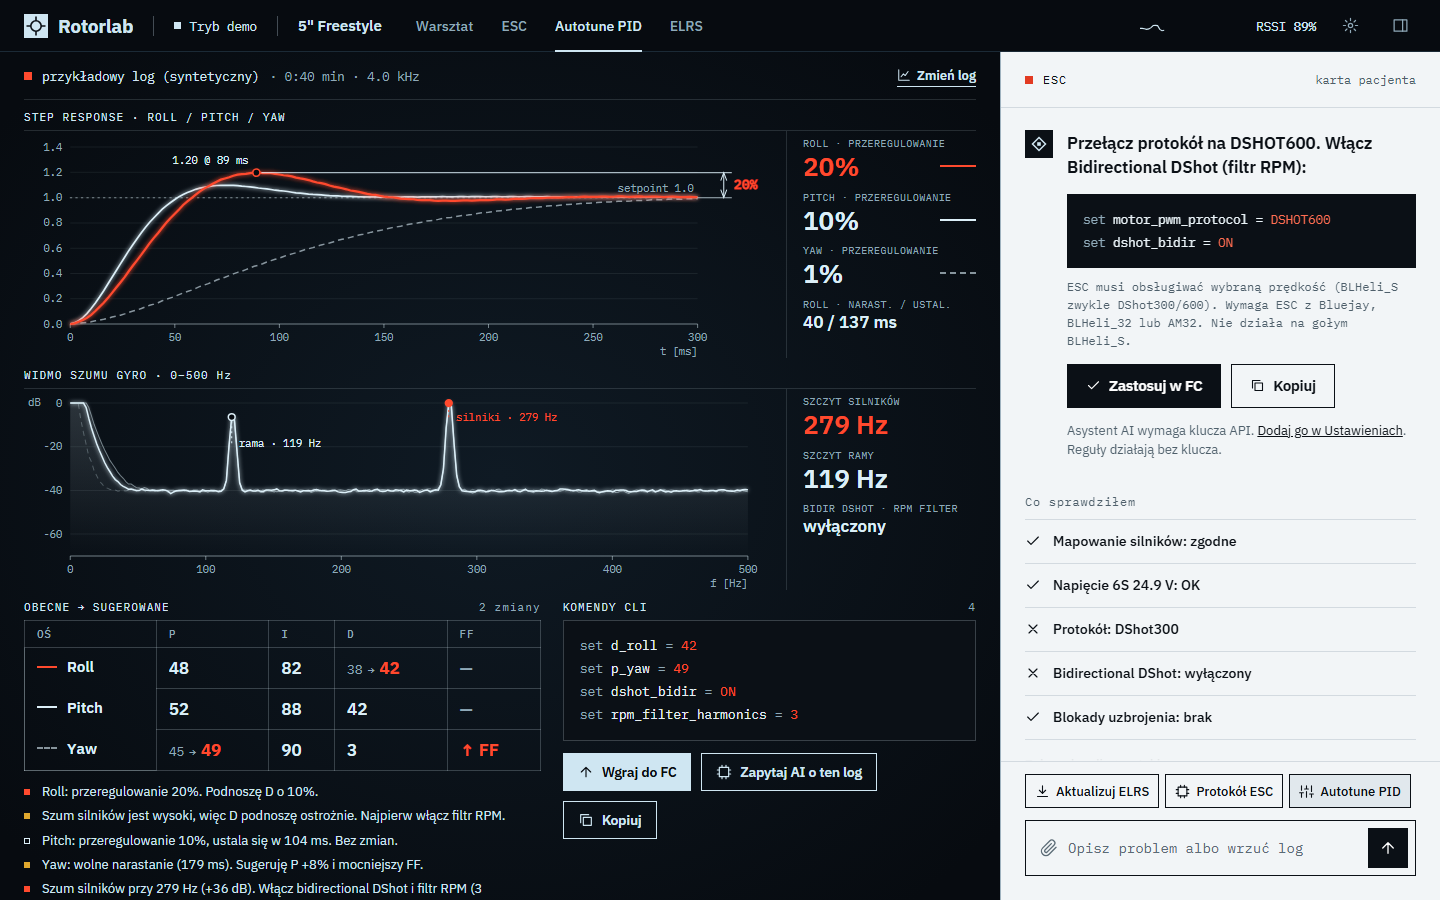
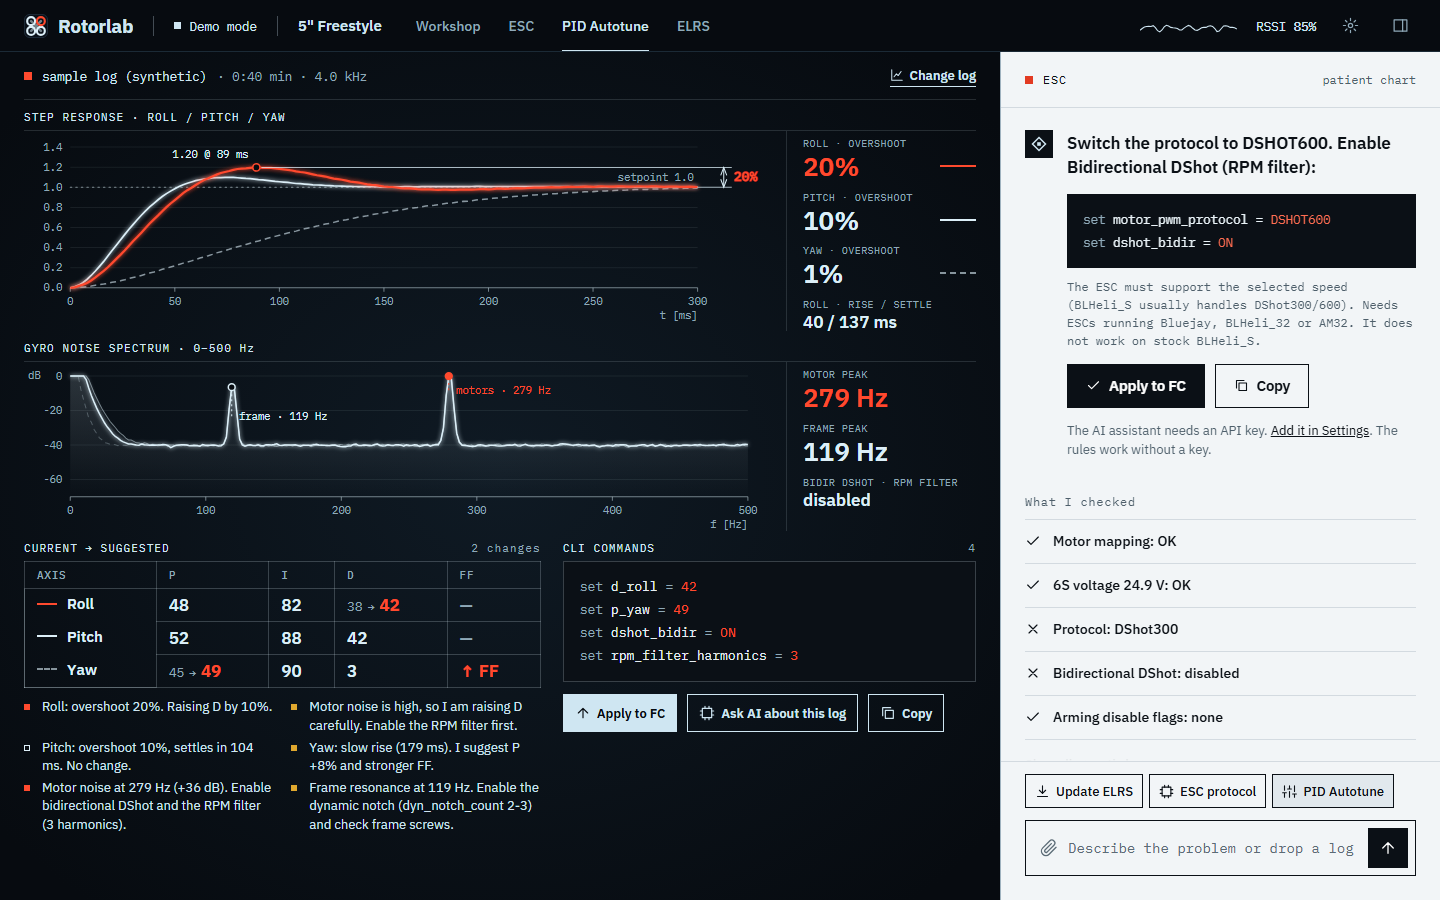
README in English with a Polish section; English screenshots
README is now English first, followed by a full Polish section. docs screenshots regenerated in English.

README po angielsku, a pod spodem pelna sekcja po polsku. Zrzuty ekranu w docs odtworzone po angielsku.

diff --git a/README.md b/README.md
@@ -5,27 +5,120 @@
 <h1 align="center">Rotorlab</h1>
 
 <p align="center">
-  Darmowa appka z AI do diagnozy i naprawy drona FPV z Betaflight: ESC, test silników, autotune PID z logów, ELRS.
+  A free AI-powered app for diagnosing and fixing FPV drones running Betaflight: ESC, motor test, PID autotune from logs, ELRS.
 </p>
 
 <p align="center">
   <a href="https://github.com/0nskal/rotorlab/releases/latest"><img alt="Latest release" src="https://img.shields.io/github/v/release/0nskal/rotorlab?style=flat-square&color=0B1016&labelColor=0B1016"></a>
   <img alt="Windows 10/11" src="https://img.shields.io/badge/Windows-10%2F11-0B1016?style=flat-square&logo=windows&logoColor=DCEFF8">
   <img alt="Chrome/Edge WebSerial" src="https://img.shields.io/badge/Chrome%20%2F%20Edge-WebSerial-0B1016?style=flat-square&logo=googlechrome&logoColor=DCEFF8">
-  <a href="LICENSE"><img alt="MIT" src="https://img.shields.io/badge/licencja-MIT-0B1016?style=flat-square"></a>
+  <a href="LICENSE"><img alt="MIT" src="https://img.shields.io/badge/license-MIT-0B1016?style=flat-square"></a>
 </p>
 
 <p align="center">
-  <a href="https://github.com/0nskal/rotorlab/releases/latest/download/Rotorlab-Setup.exe"><b>Pobierz na Windows</b></a>
+  <a href="https://github.com/0nskal/rotorlab/releases/latest/download/Rotorlab-Setup.exe"><b>Download for Windows</b></a>
   &nbsp;·&nbsp;
-  <a href="https://rotorlab.pages.dev/app/"><b>Otwórz w przeglądarce</b></a>
+  <a href="https://rotorlab.pages.dev/app/"><b>Open in the browser</b></a>
   &nbsp;·&nbsp;
-  <a href="https://rotorlab.pages.dev"><b>Strona</b></a>
+  <a href="https://rotorlab.pages.dev"><b>Website</b></a>
 </p>
 
 <p align="center">
-  <img src="docs/screenshot.png" alt="Rotorlab: rozkład drona jak klisza RTG i karta pacjenta z diagnozą" width="860">
+  <img src="docs/screenshot.png" alt="Rotorlab: X-ray style drone layout and a patient chart with the diagnosis" width="860">
 </p>
+
+<p align="center"><b>English</b> · <a href="#polski">Polski</a></p>
+
+## Features
+
+- **Diagnosis in a minute.** Reads the configuration over MSP and checks it against rules: ESC protocol, bidirectional DShot, voltage per cell, arming disable flags. The "What I checked" list shows every rule.
+- **AI assistant.** With an Anthropic API key it completes the diagnosis and proposes Betaflight CLI commands. Without a key the rules still work.
+- **ESC without guessing.** DShot protocol picker, bidirectional DShot switch, motor test with safety lock.
+- **Autotune from a log.** CSV from `blackbox_decode` or Blackbox Explorer: gyro spectrum, step response with overshoot, current and suggested PIDs.
+- **ELRS.** Update checklist (3.x versions, binding phrase, LBT/FCC) and a shortcut to the official ELRS Web Flasher.
+- **Demo mode.** A simulated FC so you can explore the app without a drone.
+- **English and Polish.** Switch the language under **Settings** (it applies instantly).
+
+## Install
+
+### Windows
+
+1. Download [`Rotorlab-Setup.exe`](https://github.com/0nskal/rotorlab/releases/latest/download/Rotorlab-Setup.exe) from the latest release.
+2. Run the installer. The app is not code-signed, so SmartScreen may show a warning: **More info → Run anyway**.
+
+### Browser
+
+Open [rotorlab.pages.dev/app](https://rotorlab.pages.dev/app/) in **Chrome or Edge 89+** (WebSerial). Firefox and Safari do not support the serial port.
+
+Requirements: a USB data cable, Betaflight 4.3+ on the flight controller.
+
+## First run
+
+1. Close Betaflight Configurator (it holds the port) and remove the props.
+2. Plug in the flight controller over USB and click **Connect**. No drone at hand? Choose **Demo mode**.
+3. Optionally paste your Anthropic API key in **Settings**. It is stored locally and never goes to the repo or any Rotorlab server.
+
+## How it works
+
+| What | Where from |
+| --- | --- |
+| Reading drone state (version, motors, voltage, PID, ESC configuration) | MSP over WebSerial |
+| Changing settings, `diff all`, `save` | Betaflight CLI over the serial port |
+| AI diagnosis and command proposals | Claude API (Anthropic) |
+| PID autotune: spectrum and step response | CSV from `blackbox_decode` / Blackbox Explorer |
+
+## Safety and privacy
+
+- Before every change Rotorlab saves a `diff all` backup, shows the list of commands and waits for confirmation.
+- The motor test only works after you tick "Props removed", has a STOP button and stops on disconnect or tab change.
+- The API key is stored locally on your device.
+- Drone data (configuration, `diff all`, rule results) goes to Anthropic only when you ask the AI assistant a question.
+
+## Development
+
+```bash
+npm install
+npm run dev            # app in the browser (Vite)
+npm run dev:electron   # app in Electron
+npm run build          # typecheck + build to dist/
+npm run dist:win       # Windows installer to release/
+```
+
+Adding a tab: create `app/src/screens/<name>.ts` exporting `mount`, register it in `app/src/screens/registry.ts`, and add its title to `app/src/i18n/en.ts` and `pl.ts`. All user-facing text lives in those two dictionaries (`pl.ts` must satisfy the type of `en.ts`).
+
+### Website deploy
+
+```bash
+npm run build && node scripts/build-site.mjs && npx wrangler pages deploy site --project-name rotorlab
+```
+
+`scripts/build-site.mjs` copies `dist/` to `site/app/`, so the browser app is served under `/app/`. The website (`site/`) is English by default with an EN/PL switch (`?lang=pl` also works).
+
+## Updates
+
+The Windows version updates from inside the app: **Settings → Updates** ("Check for updates", download with a progress bar, "Install and restart"). By default Rotorlab checks for new versions ~5 s after start (you can turn that off in the same place) and shows a quiet notice. A downloaded update also installs itself when you close the app. This applies from version 0.2.0; 0.1.0 has to be downloaded manually once. The browser version updates itself when you reload the page.
+
+## Releases
+
+Process: bump `version` in `package.json` (e.g. `0.2.0`), commit, `git tag v0.2.0 && git push --tags`, and GitHub Actions does the rest. The workflow checks that the tag matches the version in `package.json` (it fails otherwise), builds on Windows and uploads `Rotorlab-Setup.exe`, `Rotorlab-Setup.exe.blockmap` and `latest.yml` (used by the update mechanism) to the GitHub Release.
+
+Pushing a `v*` tag runs GitHub Actions with automatic release notes. The CI workflow builds the project on every push and pull request.
+
+## Roadmap
+
+- Flashing ELRS from inside the app
+- Native `.bbl` files (no CSV conversion)
+- macOS and Linux
+
+## License
+
+[MIT](LICENSE)
+
+---
+
+## Polski
+
+<p align="center"><a href="#features">English</a> · <b>Polski</b></p>
 
 ## Funkcje
 
@@ -35,6 +128,7 @@
 - **Autotune z logu.** CSV z `blackbox_decode` lub Blackbox Explorera: widmo gyro, step response z overshootem, PID obecne i sugerowane.
 - **ELRS.** Checklista aktualizacji (wersje 3.x, binding phrase, LBT/FCC) i skrót do oficjalnego ELRS Web Flasher.
 - **Tryb demo.** Symulowany FC, żeby obejrzeć appkę bez drona.
+- **Angielski i polski.** Język przełączysz w **Ustawieniach** (działa od razu).
 
 ## Instalacja
 
@@ -81,13 +175,15 @@ npm run build          # typecheck + build do dist/
 npm run dist:win       # instalator Windows do release/
 ```
 
+Dodanie zakładki: utwórz `app/src/screens/<nazwa>.ts` z eksportem `mount`, zarejestruj go w `app/src/screens/registry.ts` i dopisz tytuł w `app/src/i18n/en.ts` oraz `pl.ts`. Cały tekst interfejsu siedzi w tych dwóch słownikach (`pl.ts` musi spełniać typ z `en.ts`).
+
 ### Deploy strony
 
 ```bash
 npm run build && node scripts/build-site.mjs && npx wrangler pages deploy site --project-name rotorlab
 ```
 
-Skrypt `scripts/build-site.mjs` kopiuje `dist/` do `site/app/`, dzięki czemu appka w przeglądarce działa pod `/app/`.
+Skrypt `scripts/build-site.mjs` kopiuje `dist/` do `site/app/`, dzięki czemu appka w przeglądarce działa pod `/app/`. Strona (`site/`) jest domyślnie po angielsku z przełącznikiem EN/PL (działa też `?lang=pl`).
 
 ## Aktualizacje
 
